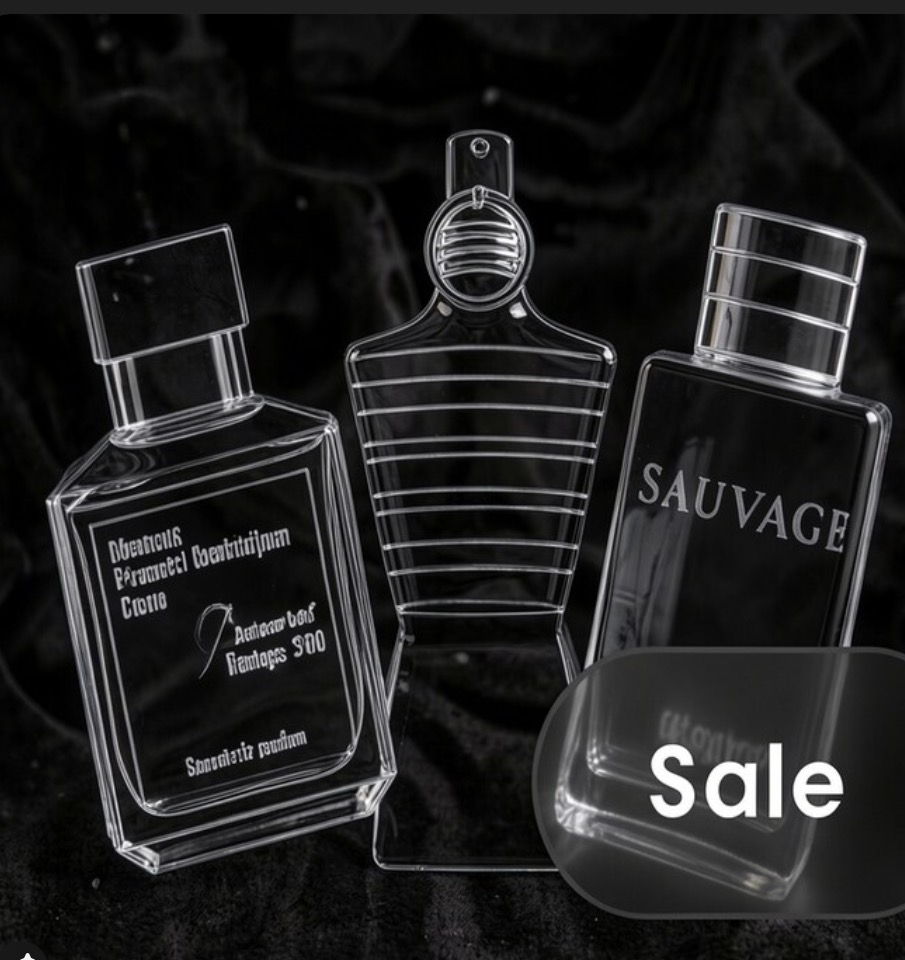
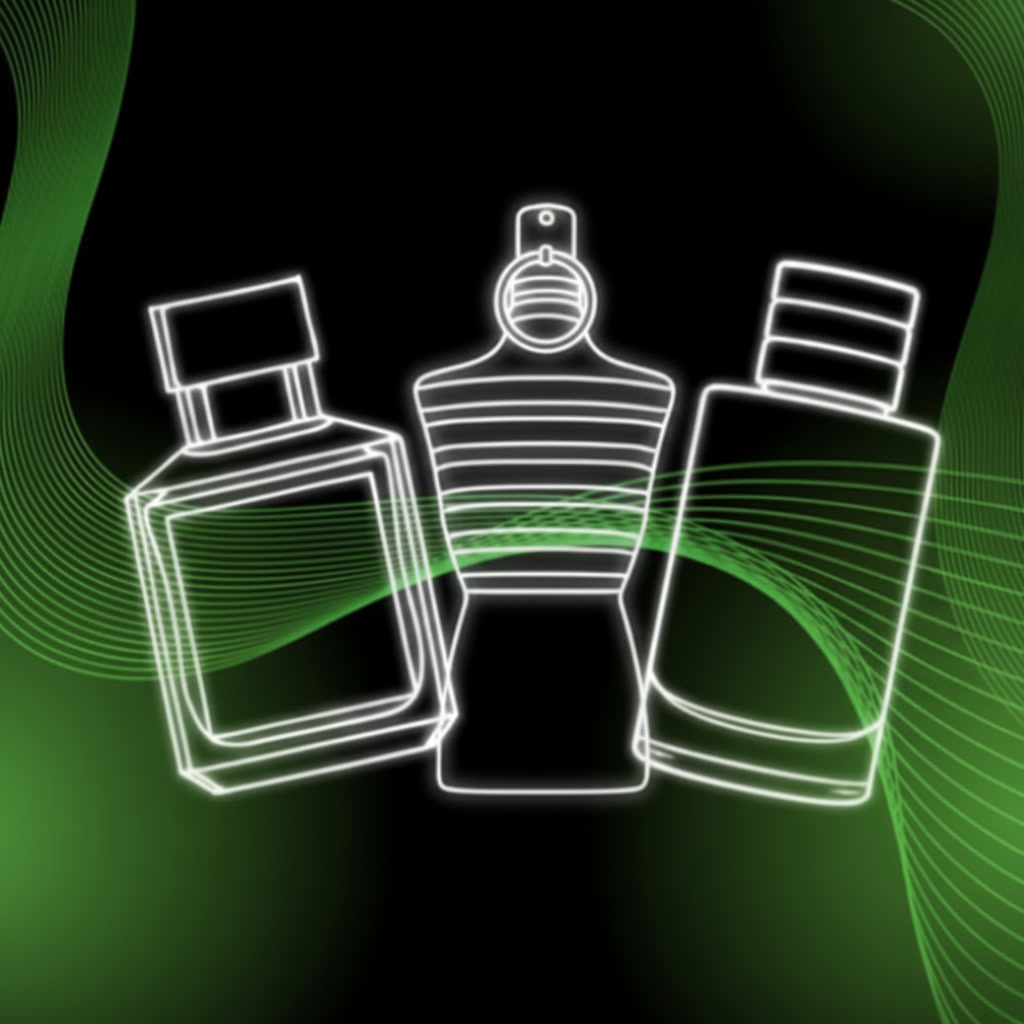
Orchids run changes (2026-05-05T13:05:16.033Z)

diff --git a/src/app/page.tsx b/src/app/page.tsx
@@ -127,7 +127,7 @@ const products = [
   {
     id: 12, name: "Cologne Supplier", badge: null,
     badgeColor: "", regularPrice: 20.00, salePrice: 14.99,
-    emoji: "🧴", image: "/cologne-product.svg", tags: ["Designer","Niche","Fragrance"],
+    emoji: "🧴", image: "/cologne-product.jpeg", tags: ["Designer","Niche","Fragrance"],
     shopifyUrl: `${CHECKOUT}/53352373420350:1`, variantId: "53352373420350",
     description: "Designer & niche fragrance suppliers. Cologne resale is booming.",
     details: {